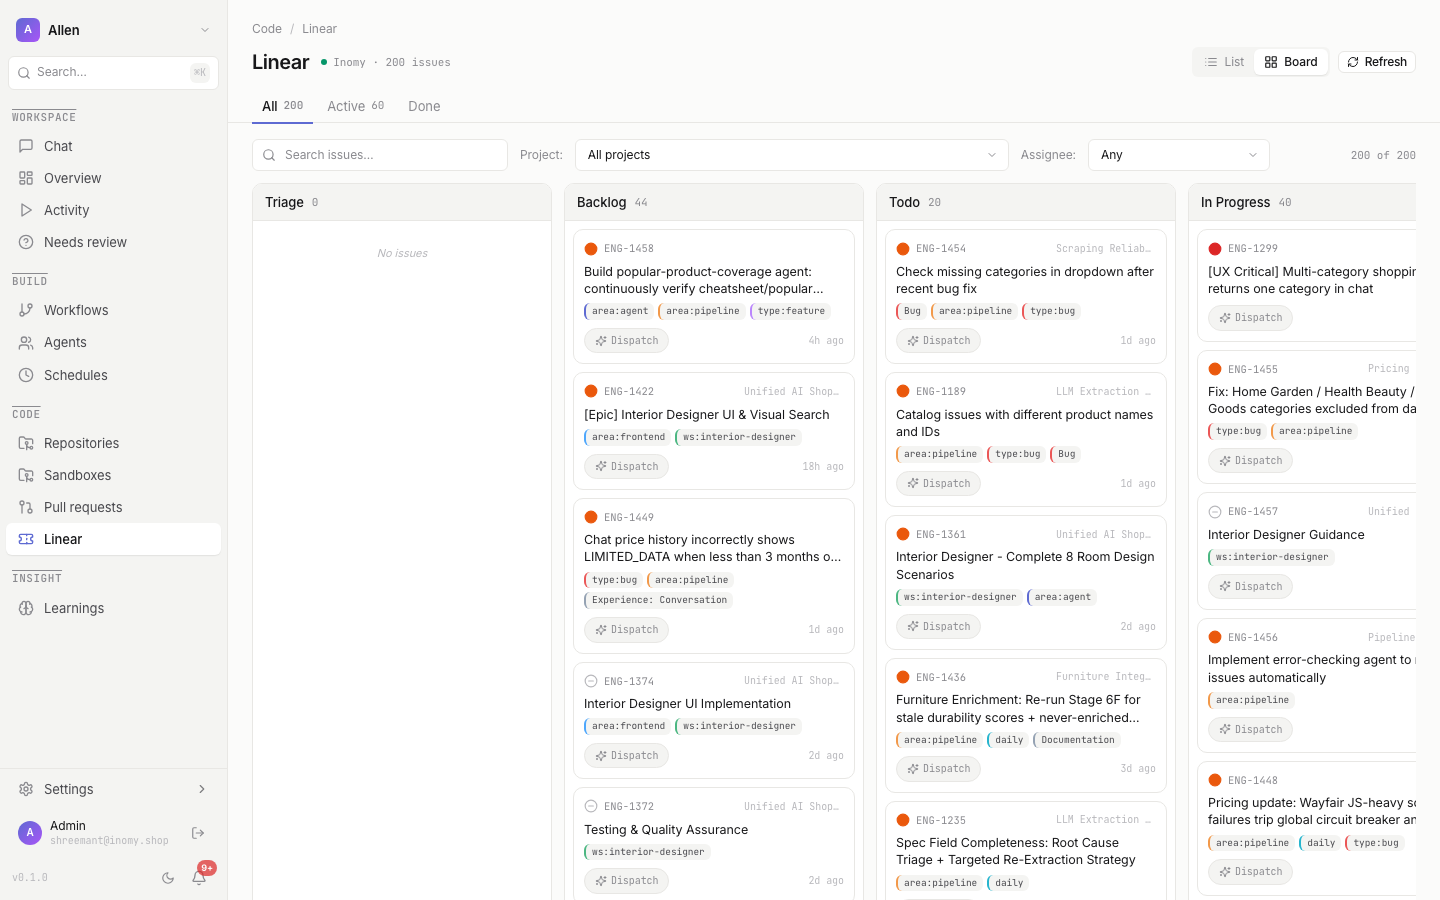
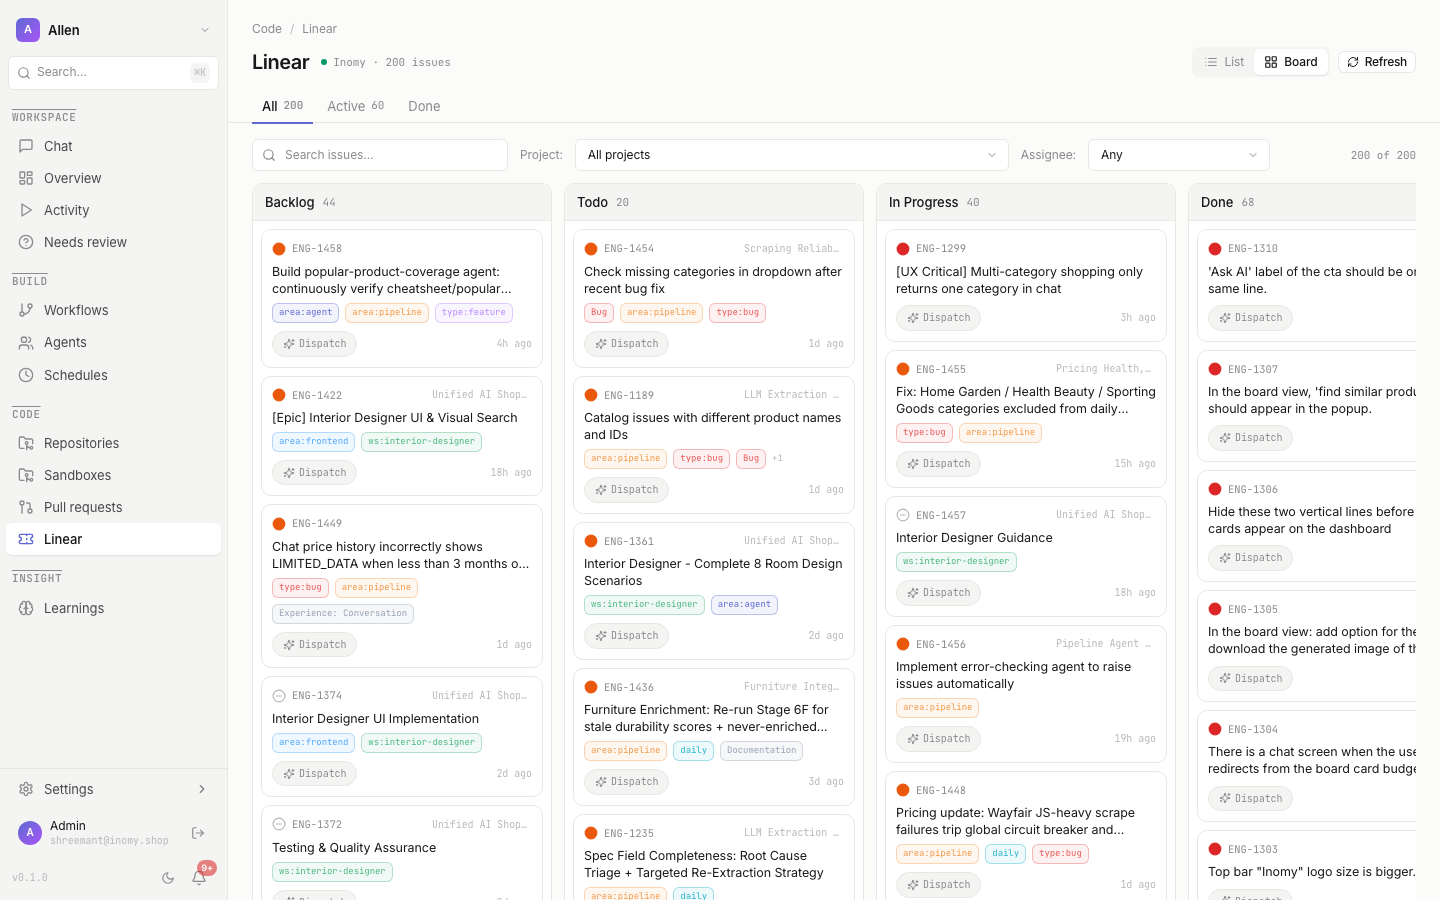
ui: Phase 8c — board polish + chat search/rename + global search removed
Linear board view
- Removed Triage column (and the default state filter entry) — Linear
  ticket lists rarely use Triage as a working column. STATUS_GROUPS
  now: Backlog / Todo / In Progress / Done / Canceled.
- Board card labels now use the same colored chip style as list rows
  (color border + bg from label.color at 15% / 60% alpha) and show
  the full label name. +N more pill when truncated past 3.

Chat conversations sidebar
- Added a search input below the "Conversations" header. Filters
  visible sessions by title (case-insensitive substring). Empty-
  match shows "No matches.".

Chat title — inline rename
- Click the h1 title to enter edit mode (input replaces h1, autoFocus,
  preselects current title). Enter blurs to commit; Escape cancels.
- commitTitle() PATCHes via chatApi.updateSession; the useChat hook
  picks up the change on its next sessions refresh and propagates
  to the sidebar.
- Available only when an active session is loaded (no rename when
  starting a fresh chat).

App.tsx
- Removed the placeholder global search box from the main sidebar
  (was a non-functional ⌘K hint). Removed the Search lucide import.

diff --git a/packages/ui/src/pages/ChatPage.tsx b/packages/ui/src/pages/ChatPage.tsx
@@ -196,6 +196,23 @@ export default function ChatPage() {
   const sessionTitle = activeSessionId ? activeSession?.title ?? 'Chat' : CHAT_TITLE;
   const messageCount = activeSession?.messageCount ?? 0;
 
+  // Inline title edit. Persists via chatApi.updateSession + nudges
+  // useChat to refresh the sessions list so the sidebar shows the
+  // new title. Only enabled when there's an active session.
+  const [titleDraft, setTitleDraft] = useState<string | null>(null);
+  const [savingTitle, setSavingTitle] = useState(false);
+  async function commitTitle() {
+    const next = (titleDraft ?? '').trim();
+    setTitleDraft(null);
+    if (!activeSessionId || !next || next === sessionTitle) return;
+    setSavingTitle(true);
+    try {
+      await chatApi.updateSession(activeSessionId, { title: next });
+    } finally {
+      setSavingTitle(false);
+    }
+  }
+
   return (
     <div className="flex-1 flex h-full min-w-0">
       {/* Conversations sidebar (matches handoff/pages/chat.jsx ChatV2) */}
@@ -215,9 +232,28 @@ export default function ChatPage() {
         </div>
         <div className="flex items-center justify-between gap-3">
           <div className="flex items-center gap-3 min-w-0">
-            <h1 className="text-[20px] font-semibold text-theme-primary tracking-tight truncate">
-              {sessionTitle}
-            </h1>
+            {activeSessionId && titleDraft !== null ? (
+              <input
+                autoFocus
+                value={titleDraft}
+                onChange={(e) => setTitleDraft(e.target.value)}
+                onBlur={commitTitle}
+                onKeyDown={(e) => {
+                  if (e.key === 'Enter') (e.target as HTMLInputElement).blur();
+                  if (e.key === 'Escape') setTitleDraft(null);
+                }}
+                className="text-[20px] font-semibold text-theme-primary tracking-tight bg-transparent border border-app rounded px-2 py-0.5 focus:outline-none focus:border-accent w-[40rem] max-w-full"
+                disabled={savingTitle}
+              />
+            ) : (
+              <h1
+                className={`text-[20px] font-semibold text-theme-primary tracking-tight truncate ${activeSessionId ? 'cursor-text hover:text-accent transition-colors' : ''}`}
+                onClick={() => activeSessionId && setTitleDraft(sessionTitle)}
+                title={activeSessionId ? 'Click to rename' : undefined}
+              >
+                {sessionTitle}
+              </h1>
+            )}
             {activeSessionId && activeProvider && (
               <span className={`badge badge-muted ${PROVIDER_DISPLAY[activeProvider]?.color ?? 'text-theme-muted'}`}>
                 {PROVIDER_DISPLAY[activeProvider]?.label}

diff --git a/packages/ui/src/components/chat/ConversationsSidebar.tsx b/packages/ui/src/components/chat/ConversationsSidebar.tsx
@@ -1,6 +1,6 @@
-import { useState } from 'react';
+import { useMemo, useState } from 'react';
 import { useNavigate } from 'react-router-dom';
-import { Plus, Trash2 } from 'lucide-react';
+import { Plus, Trash2, Search } from 'lucide-react';
 import { useChat } from '../../hooks/useChat';
 import DeleteConfirmDialog from '../common/DeleteConfirmDialog';
 
@@ -29,6 +29,13 @@ export default function ConversationsSidebar() {
   const navigate = useNavigate();
   const { sessions, activeSessionId, loadingSessions, switchSession, deleteSession } = useChat();
   const [deleting, setDeleting] = useState<{ id: string; title: string } | null>(null);
+  const [query, setQuery] = useState('');
+
+  const filtered = useMemo(() => {
+    const q = query.trim().toLowerCase();
+    if (!q) return sessions;
+    return sessions.filter((s) => (s.title ?? '').toLowerCase().includes(q));
+  }, [sessions, query]);
 
   function handleNew() {
     switchSession('');
@@ -54,6 +61,17 @@ export default function ConversationsSidebar() {
           <Plus className="w-3.5 h-3.5" />
         </button>
       </div>
+      <div className="px-2 pt-2 pb-1">
+        <div className="relative">
+          <Search className="w-3.5 h-3.5 absolute left-2.5 top-1/2 -translate-y-1/2 text-theme-muted pointer-events-none" />
+          <input
+            value={query}
+            onChange={(e) => setQuery(e.target.value)}
+            placeholder="Search conversations…"
+            className="input pl-8 pr-3 py-1.5 w-full text-[12px]"
+          />
+        </div>
+      </div>
       <div className="flex-1 overflow-y-auto px-1.5 py-1.5 space-y-1">
         {loadingSessions && sessions.length === 0 && (
           <div className="px-3 py-4 text-center text-[12px] text-theme-subtle animate-pulse">Loading conversations…</div>
@@ -61,7 +79,10 @@ export default function ConversationsSidebar() {
         {!loadingSessions && sessions.length === 0 && (
           <div className="px-3 py-4 text-center text-[12px] text-theme-subtle">No conversations yet</div>
         )}
-        {sessions.map((s) => {
+        {!loadingSessions && sessions.length > 0 && filtered.length === 0 && (
+          <div className="px-3 py-4 text-center text-[12px] text-theme-subtle">No matches.</div>
+        )}
+        {filtered.map((s) => {
           const isActive = s._id === activeSessionId;
           const p = PROV[s.provider] ?? { label: s.provider, color: 'text-theme-muted' };
           const dotBg = p.color.replace('text-', 'bg-');

diff --git a/packages/ui/src/pages/TicketsPage.tsx b/packages/ui/src/pages/TicketsPage.tsx
@@ -73,7 +73,6 @@ interface LinearStatus {
 }
 
 const STATUS_GROUPS: { type: StateType; label: string }[] = [
-  { type: 'triage', label: 'Triage' },
   { type: 'backlog', label: 'Backlog' },
   { type: 'unstarted', label: 'Todo' },
   { type: 'started', label: 'In Progress' },
@@ -118,7 +117,7 @@ export default function TicketsPage() {
 
   const [projectFilter, setProjectFilter] = useState<string>(''); // '' = all
   const [stateFilters, setStateFilters] = useState<Set<StateType>>(
-    new Set<StateType>(['backlog', 'unstarted', 'started', 'triage']),
+    new Set<StateType>(['backlog', 'unstarted', 'started']),
   );
   const [assigneeFilter, setAssigneeFilter] = useState<'any' | 'unassigned' | string>('any');
   const [search, setSearch] = useState('');
@@ -143,7 +142,7 @@ export default function TicketsPage() {
   useEffect(() => {
     if (topTab === 'active') setStateFilters(new Set<StateType>(['started', 'unstarted']));
     else if (topTab === 'done') setStateFilters(new Set<StateType>(['completed']));
-    else setStateFilters(new Set<StateType>(['triage', 'backlog', 'unstarted', 'started', 'completed', 'canceled']));
+    else setStateFilters(new Set<StateType>(['backlog', 'unstarted', 'started', 'completed', 'canceled']));
   }, [topTab]);
 
   // Teams list for agent dropdown grouping
@@ -790,16 +789,19 @@ function BoardCard({
         {issue.title}
       </div>
       {issue.labels.length > 0 && (
-        <div className="flex items-center gap-1 flex-wrap">
+        <div className="flex items-center gap-1.5 flex-wrap">
           {issue.labels.slice(0, 3).map(l => (
             <span
               key={l.id}
-              className="text-[9.5px] font-mono px-1.5 py-px rounded bg-app-muted text-theme-secondary"
-              style={{ borderLeft: `2px solid ${l.color}` }}
+              className="text-[9px] font-mono px-1.5 py-0.5 rounded border"
+              style={{ color: l.color, borderColor: l.color + '60', backgroundColor: l.color + '15' }}
             >
               {l.name}
             </span>
           ))}
+          {issue.labels.length > 3 && (
+            <span className="text-[9px] text-theme-subtle font-mono">+{issue.labels.length - 3}</span>
+          )}
         </div>
       )}
       <div className="flex items-center justify-between gap-2 mt-0.5" onClick={e => e.stopPropagation()}>

diff --git a/packages/ui/src/App.tsx b/packages/ui/src/App.tsx
@@ -6,7 +6,7 @@ import {
   LayoutDashboard, GitBranch, Play, Users, Settings,
   FolderGit2, Brain, MessageSquare,
   Server, User, ChevronDown, ChevronRight,
-  GitPullRequest, Clock, HelpCircle, Ticket, Search, LogOut, ShieldCheck,
+  GitPullRequest, Clock, HelpCircle, Ticket, LogOut, ShieldCheck,
   Sun, Moon,
 } from 'lucide-react';
 import { useSettingsStore } from './stores/settingsStore';
@@ -159,13 +159,6 @@ export default function App() {
             <span className="font-heading text-[13px] font-semibold text-theme-primary truncate">{BRAND_NAME}</span>
           </NavLink>
           <ChevronDown className="w-3 h-3 text-theme-muted shrink-0" />
-        </div>
-
-        {/* Search box */}
-        <div className="mx-2 mb-3 flex items-center gap-1.5 px-2 py-1.5 rounded-md bg-app-card border border-app text-theme-muted text-[12px] cursor-pointer hover:border-app-strong transition-colors">
-          <Search className="w-3.5 h-3.5 shrink-0" />
-          <span className="flex-1 truncate">Search…</span>
-          <span className="font-mono text-[10px] px-1 py-0.5 rounded bg-app-muted text-theme-subtle">⌘K</span>
         </div>
 
         {/* Nav groups */}